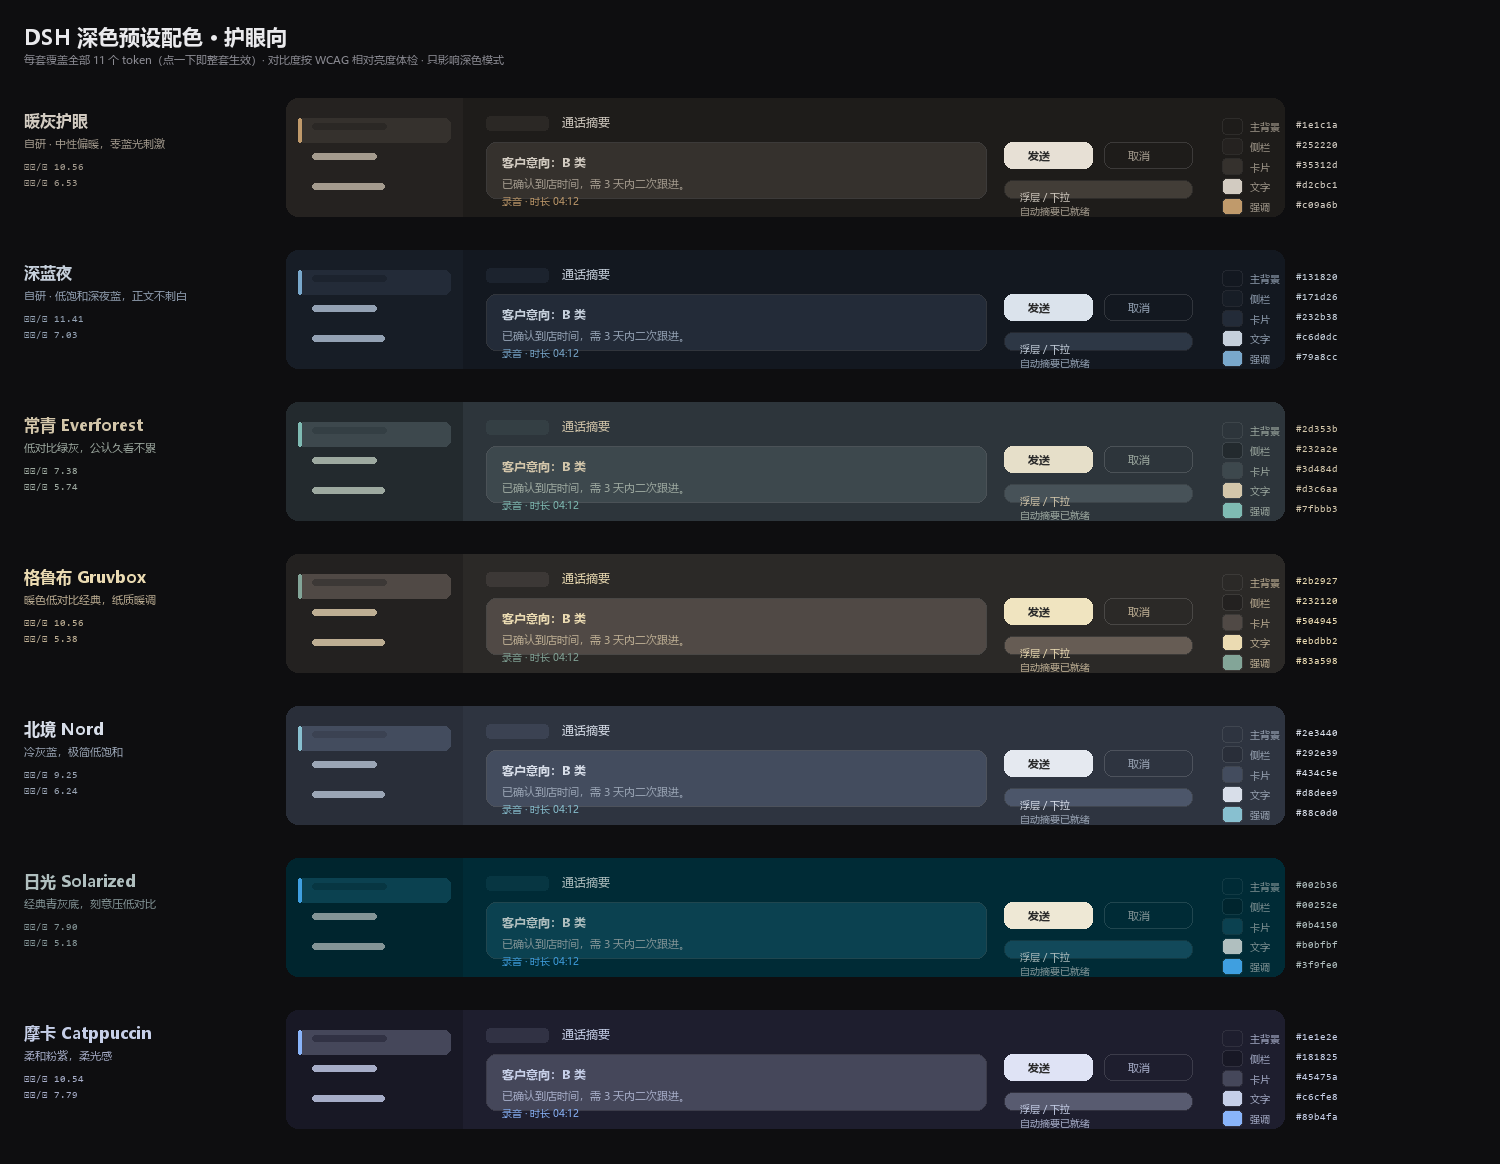
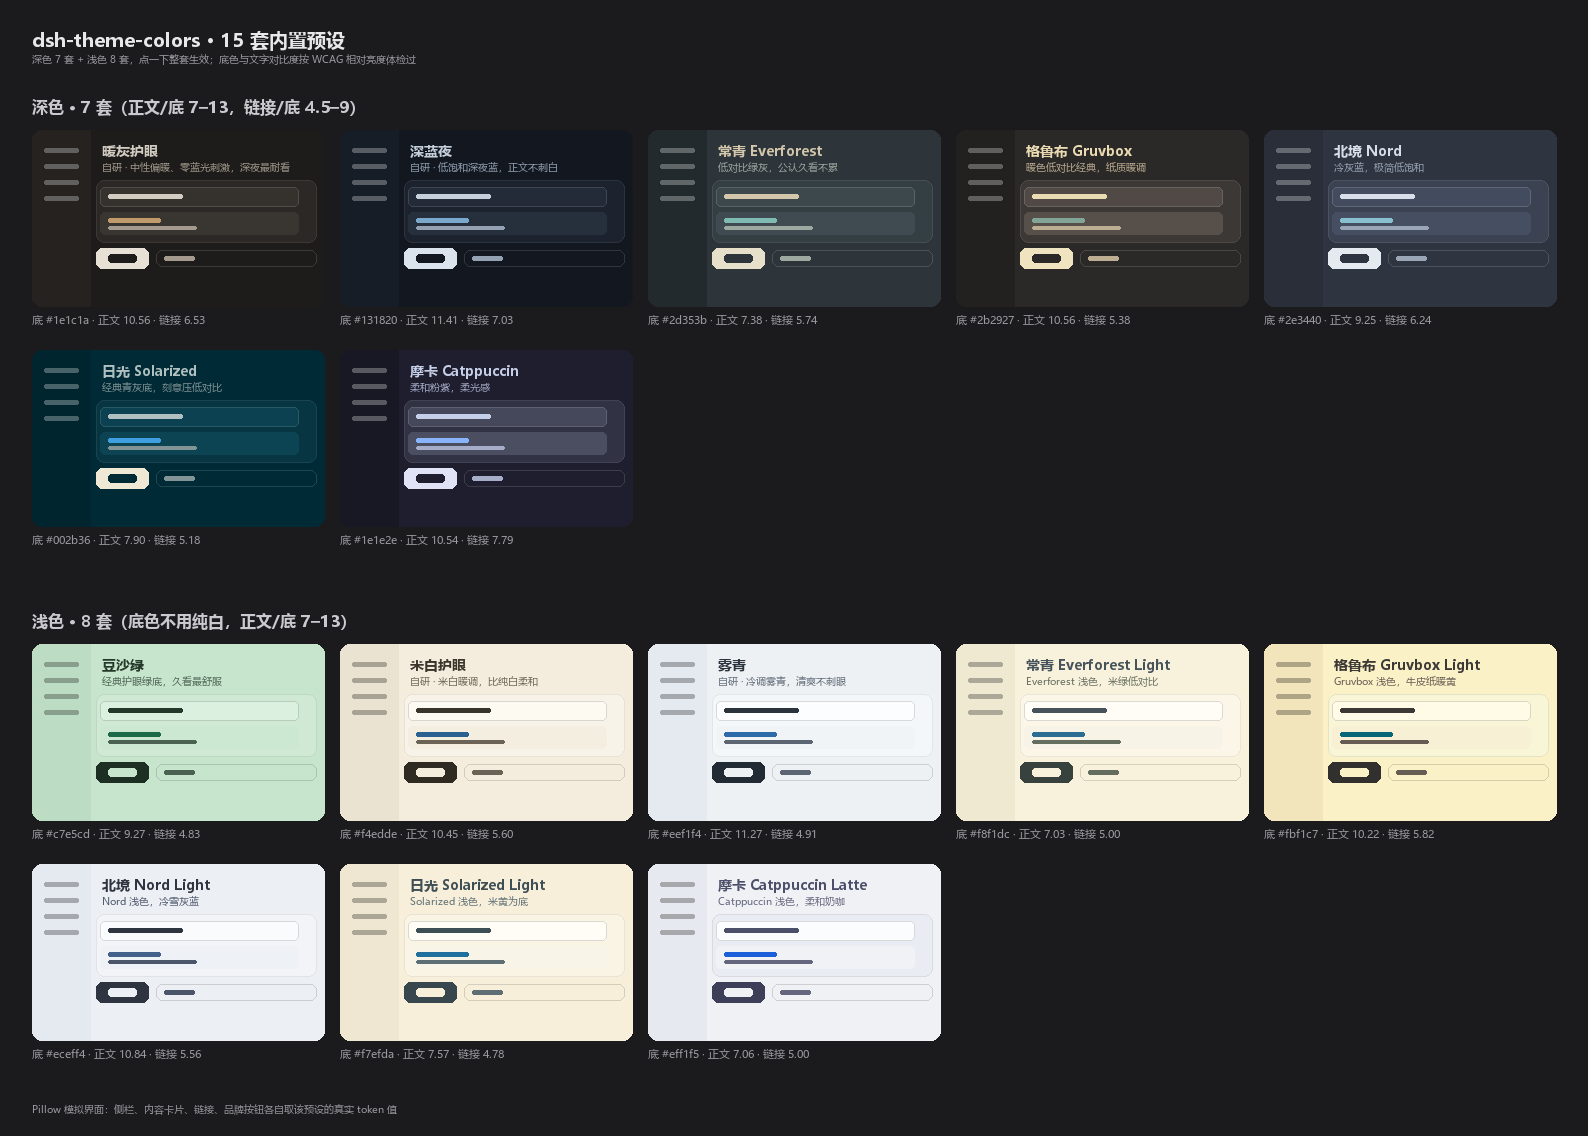
docs: 补上深/浅两套配色的说明与 15 套预设总览图
- 插件 README：11 个 token 表拆成深色默认值/浅色默认值两列，补「两侧互不干扰」
  与生效/持久化说明，预设表按深 7 + 浅 8 分开列并标注对比度
- 总览图重画：深 7 + 浅 8 各一张卡片，侧栏与内容卡片取该预设真实 token 值
- 根 README 的插件表同步新描述

diff --git a/dsh-theme-colors/README.md b/dsh-theme-colors/README.md
@@ -1,36 +1,51 @@
 # dsh-theme-colors
 
-给 DSH 一个自己选颜色的入口：**设置 → 外观颜色**，用取色器调整深色模式的关键配色，改动立即生效。
+给 DSH 一个自己选颜色的入口：**设置 → 外观颜色**，用取色器调整深色与浅色两套关键配色，改动立即生效。
 
 ## 为什么需要它
 
 内置的 `@deepseek-ai/dsh-client-ui-theme` 只提供 `浅色 / 深色 / 跟随系统` 与正文字号，
-深色模式的底色是写死的（主背景 `#151517`、侧栏 `#1b1b1c`、卡片 `#232324` / `#2c2c2e`），
-没有自定义入口。本插件用官方公开的扩展点补上这一层，不修改 asar 里的任何官方代码。
+两套配色的底色都是写死的（深色主背景 `#151517`、侧栏 `#1b1b1c`、卡片 `#232324` / `#2c2c2e`；
+浅色则是纯白 `#ffffff` + 深灰字，对比度 18.9:1），没有自定义入口。
+本插件用官方公开的扩展点补上这一层，不修改 asar 里的任何官方代码。
 
 ## 能改什么
 
-| 分组 | token | 深色默认值 |
-|---|---|---|
-| 背景与表面 | `--dsw-alias-bg-base` 主背景 | `#151517` |
-| | `--dsw-specific-sidebar-fill` 侧边栏 | `#1b1b1c` |
-| | `--dsw-alias-bg-layer-1` 一级表面 | `#232324` |
-| | `--dsw-alias-bg-layer-2` 二级表面（卡片） | `#2c2c2e` |
-| | `--dsw-alias-bg-overlay` 浮层底色 | `#43454a` |
-| 文字 | `--dsw-alias-label-primary` 正文 | `#f9fafb` |
-| | `--dsw-alias-label-secondary` 次要文字 | `#cfd3d6` |
-| 强调色 | `--dsw-alias-brand-primary` 品牌强调 | `#f9fafb` |
-| | `--dsw-alias-state-business-primary` 链接与焦点 | `#7aaaff` |
-| 分隔线 | `--dsw-alias-border-l1` 细边框 | `#ffffff0f` |
-| | `--dsw-alias-border-l2` 粗边框 | `#ffffff1f` |
+11 个 token，**深色与浅色各存一份**：
+
+| 分组 | token | 深色默认值 | 浅色默认值 |
+|---|---|---|---|
+| 背景与表面 | `--dsw-alias-bg-base` 主背景 | `#151517` | `#ffffff` |
+| | `--dsw-specific-sidebar-fill` 侧边栏 | `#1b1b1c` | `#f9fafb` |
+| | `--dsw-alias-bg-layer-1` 一级表面 | `#232324` | `#ffffff` |
+| | `--dsw-alias-bg-layer-2` 二级表面（卡片） | `#2c2c2e` | `#ffffff` |
+| | `--dsw-alias-bg-overlay` 浮层底色 | `#43454a` | `#e9ecf2` |
+| 文字 | `--dsw-alias-label-primary` 正文 | `#f9fafb` | `#0f1115` |
+| | `--dsw-alias-label-secondary` 次要文字 | `#cfd3d6` | `#61666b` |
+| 强调色 | `--dsw-alias-brand-primary` 品牌强调 | `#f9fafb` | `#0f1115` |
+| | `--dsw-alias-state-business-primary` 链接与焦点 | `#7aaaff` | `#4176e6` |
+| 分隔线 | `--dsw-alias-border-l1` 细边框 | `#ffffff0f` | `#0000000a` |
+| | `--dsw-alias-border-l2` 粗边框 | `#ffffff1f` | `#0000001a` |
 
 取值支持 `#rgb` / `#rrggbb` / `#rrggbbaa` / `rgb()` / `rgba()` / `hsl()` / `hsla()`，
 边框那两行用 8 位十六进制（末两位是透明度）。
 
+### 深 / 浅两侧互不干扰
+
+设置页顶部是 `深色 / 浅色` 两个页签，**打开时默认停在当前正在生效的那一套**（跟随主题偏好，
+主题切成浅色页签就跟着跳）。两边各存自己的 11 个 token：
+
+- 只改深色，浅色就一直是官方值；反之亦然——覆盖层里每个 token 带的是一对
+  `{ light, dark }`，运行时按当前 `colorScheme` 取用对应那一侧。
+- 页签上的数字气泡是「这一侧改了几项」，某一侧没被改过就没有气泡。
+- 手动点过页签之后就不再自动跟随（否则每次切主题都会跳走）；点回当前生效的那一侧即恢复跟随。
+
 ## 预设配色（低调护眼向）
 
-设置页顶部有 7 张预设卡片，**点一下整套生效**（每套覆盖全部 11 个 token，不会残留上一套的颜色），
-之后还能按行微调；只要有一行被改过，预设高亮就会消失。
+每侧各有一排预设卡片，**点一下整套生效**（每套覆盖该侧全部 11 个 token，不会残留上一套的颜色，
+另一侧完全不受影响），之后还能按行微调；只要有一行被改过，预设高亮就会消失。
+
+深色侧 7 套：
 
 | 预设 | 来源 | 主背景 | 正文/底 | 链接/底 |
 |---|---|---|---|---|
@@ -42,34 +57,51 @@
 | 日光 Solarized | [Solarized](https://ethanschoonover.com/solarized/) Dark | `#002b36` | 7.90 | 5.18 |
 | 摩卡 Catppuccin | [Catppuccin](https://catppuccin.com/) Mocha | `#1e1e2e` | 10.54 | 7.79 |
 
+浅色侧 8 套（**底色一律不用纯白**，亮度压在 0.92 以内，把官方 18.9:1 的硬对比降到 7–13）：
+
+| 预设 | 来源 | 主背景 | 正文/底 | 次要/底 | 链接/底 |
+|---|---|---|---|---|---|
+| 豆沙绿 | 经典护眼绿 | `#c7e5cd` | 9.27 | 4.96 | 4.83 |
+| 米白护眼 | 自研 | `#f4edde` | 10.45 | 5.09 | 5.60 |
+| 雾青 | 自研 | `#eef1f4` | 11.27 | 5.14 | 4.91 |
+| 常青 Everforest Light | [Everforest](https://github.com/sainnhe/everforest) | `#f8f1dc` | 7.03 | 4.78 | 5.00 |
+| 格鲁布 Gruvbox Light | [Gruvbox](https://github.com/morhetz/gruvbox) | `#fbf1c7` | 10.22 | 5.74 | 5.82 |
+| 北境 Nord Light | [Nord](https://www.nordtheme.com/) | `#eceff4` | 10.84 | 6.40 | 5.56 |
+| 日光 Solarized Light | [Solarized](https://ethanschoonover.com/solarized/) | `#f7efda` | 7.57 | 4.59 | 4.78 |
+| 摩卡 Catppuccin Latte | [Catppuccin](https://catppuccin.com/) Latte | `#eff1f5` | 7.06 | 4.99 | 5.00 |
+
 对比度是 WCAG 相对亮度算出来的，护眼区间取的是：**正文/底 7–13**（够读但不刺白）、
 次要文字/底 ≥ 4.5、**链接/底 4.5–9**（能读但不霓虹）、正文/卡片 ≥ 5、
-品牌色与按钮上的反色字 ≥ 4.5。东方/西方两套官方配色都按这个区间做了微调：
-Solarized 的 `#268bd2` 链接色在原底上只有 4.08，所以提到 `#3f9fe0`（5.18）；
-正文也从 base1 提亮到 `#b0bfbf`，否则落在 6.9 偏暗。Everforest、Gruvbox 都是原生值。
+品牌色与按钮上的反色字 ≥ 4.5（深色侧是亮底 + 深字，浅色侧是深底 + 白字）。
+东方/西方两套官方配色都按这个区间做了微调：
+Solarized 深色的 `#268bd2` 链接色在原底上只有 4.08，所以提到 `#3f9fe0`（5.18），
+正文也从 base1 提亮到 `#b0bfbf`，否则落在 6.9 偏暗；浅色侧则把 Solarized 的米黄底
+（原本 12.9）与 Everforest 的米绿底（原本 13.9）往 7–13 区间里收。
+其余预设都是原生值。
 
-配色总览图：[preview-palettes.png](preview-palettes.png)（Pillow 画的模拟界面）。
+配色总览图：[preview-palettes.png](preview-palettes.png)（Pillow 画的模拟界面，深色 7 套 + 浅色 8 套）。
 
 ## 生效与持久化
 
 - **生效**：调用主题服务的公开扩展点 `ctx.theme.overrideTokens(source, { token: { light, dark } })`。
   `ui-layout` 会把快照里的 token 直接 `setProperty` 到 `body` 上，所以选色是即时的——设置页本身就会跟着变色。
-- **持久化**：`localStorage`（key `dsh-theme-colors/v1`）。DSH Desktop 固定监听 `127.0.0.1:19387`，
-  origin 稳定，因此跨重启有效。
-- **浅色模式不受影响**：覆盖层只改 `dark` 一侧，`light` 一侧固定带官方原值；
-  某一行没被改过时根本不进覆盖层。
-- 顶部的「启用自定义配色」可以整体开关，「全部恢复默认」清空所有改动。
+- **持久化**：`localStorage`（key `dsh-theme-colors/v1`，结构是 `{ enabled, dark, light }`）。
+  DSH Desktop 固定监听 `127.0.0.1:19387`，origin 稳定，因此跨重启有效；
+  老版本只存了 `dark` 的记录照样能读，浅色侧自动补官方默认值。
+- **只注册一层覆盖**：两侧写在同一个 token 对上，某一行两边都等于官方原值时根本不进覆盖层；
+  全部复原后覆盖层被释放，配置回到官方原样。
+- 顶部的「启用自定义配色」可以整体开关，「全部恢复默认」清空两侧的所有改动。
   总开关关掉时预设卡片仍然可点，点一下会自动重新打开。
 
 ## 结构
 
 ```
 index.js          Host 半：只为在 profile 组合里占一行（Client 模块是从 Host Loader 条目扫描出来的）
-client.js         Client 半：设置页 + 7 套预设 + 取色器 + token 覆盖（window.__ModuleLoader__.load 手写 bundle）
+client.js         Client 半：设置页 + 深浅两套预设 + 取色器 + token 覆盖（window.__ModuleLoader__.load 手写 bundle）
 cordis.patch.yml  bundle 的 patch 层：插入 theme-colors 行
 locale/*.json     插件列表里显示的标题/描述
-smoke.mjs         自检（含预设的对比度断言）
-preview-palettes.png  7 套预设的对比预览图（脚本另存，不参与运行）
+smoke.mjs         自检（含两侧预设的对比度断言与样式护栏）
+preview-palettes.png  15 套预设的对比预览图（脚本另存，不参与运行）
 ```
 
 ## 安装 / 卸载
@@ -99,6 +131,6 @@ error: profile "desktop" is managed exclusively by the Electron application
 node "$env:USERPROFILE\.dsh-plugins\dsh-theme-colors\smoke.mjs"
 ```
 
-用极简 React 在 Node 里跑一遍注册契约、状态清洗、token 覆盖写入、预设套用与设置页渲染，
-共 46 项断言（含每套预设的 11-token 完整性与对比度区间），全 PASS 才算接线正确。
-它不启动浏览器，也不连 DSH。
+用极简 React 在 Node 里跑一遍注册契约、文案对齐、状态清洗、深浅两侧的 token 覆盖写入、
+模式跟随、预设套用与设置页渲染，共 82 项断言（含 15 套预设的 11-token 完整性与对比度区间、
+样式护栏），全 PASS 才算接线正确。它不启动浏览器，也不连 DSH。
